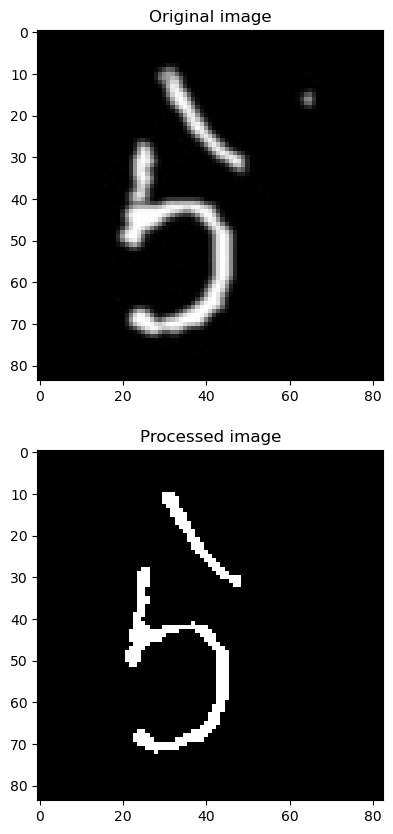
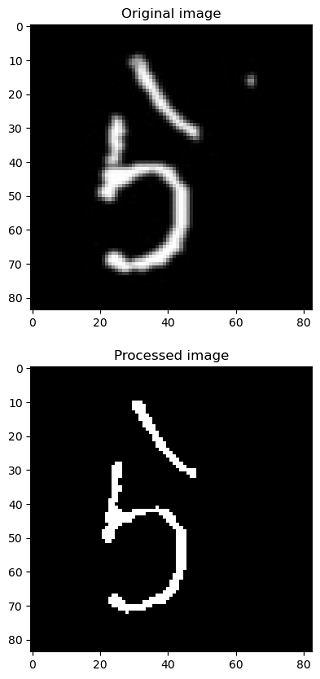
change image sizes

diff --git a/README.md b/README.md
@@ -16,8 +16,8 @@ The training set of 1405 images are split into training data and testing data in
 
 The trained model is then evaluated by the testing data (total 211 images split from the data). A 5-fold cross validation test is further constructed from the training data to test the integrity of the model.
 
-![Image preprocessing](figures/romanji1.png){ width="100px" }
-![CNN structure](figures/romanji2.png){ width="100px" }
+![Image preprocessing](figures/romanji1.png)
+![CNN structure](figures/romanji2.png)
 
 
 ## Results
